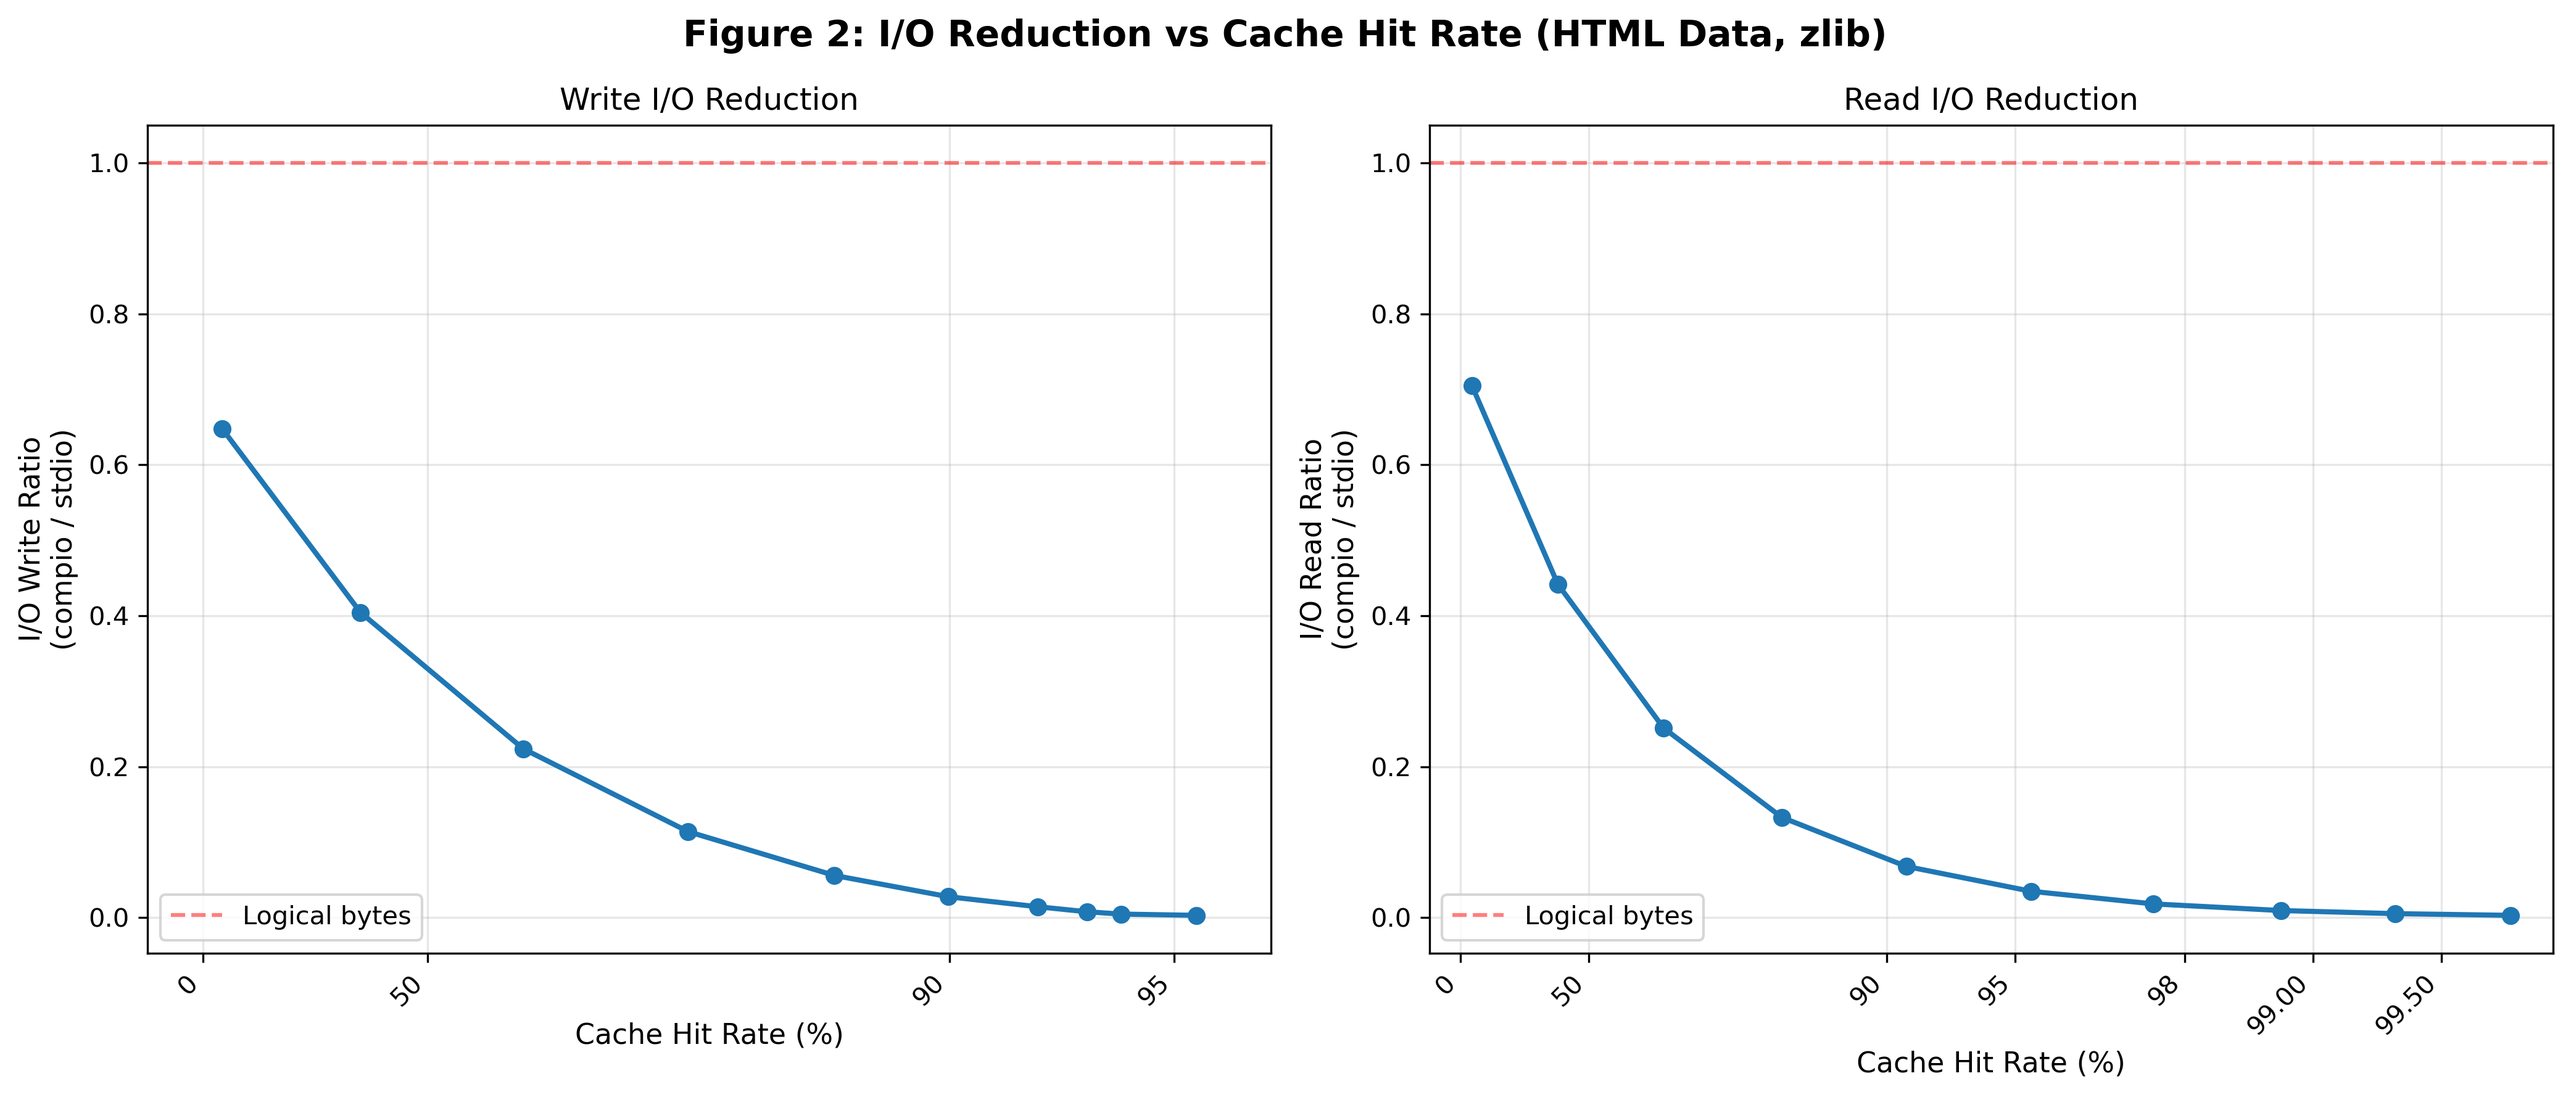
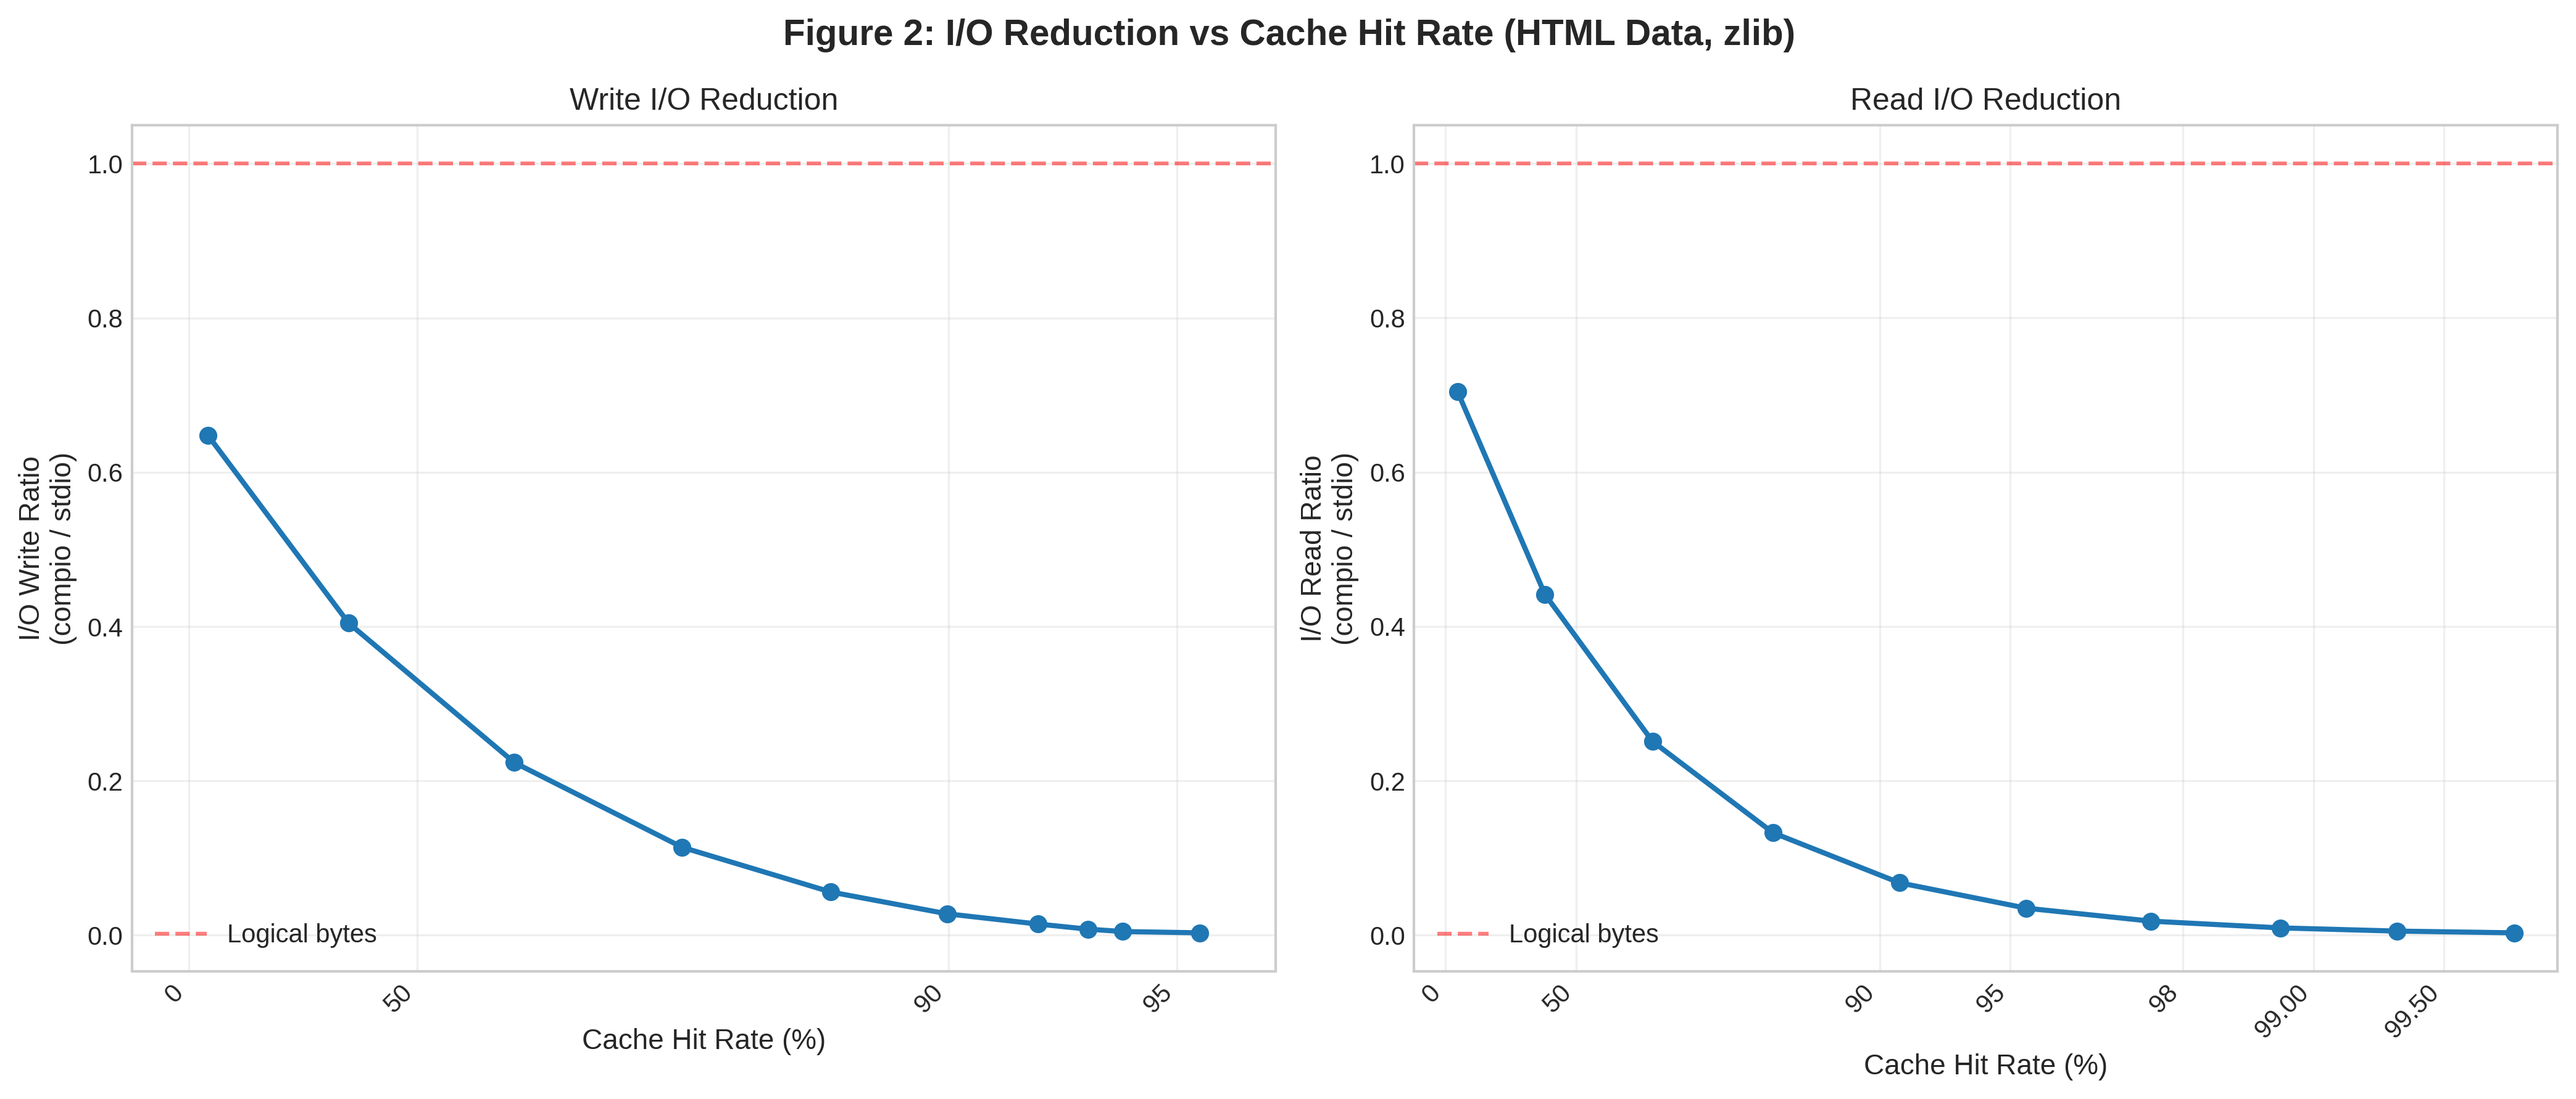
fix: use different plot style, adjust ylim, make dashed line

diff --git a/metrics/analyze.py b/metrics/analyze.py
@@ -12,6 +12,8 @@ mpl.rcParams['font.size'] = 10
 mpl.rcParams['axes.titlesize'] = 12
 mpl.rcParams['axes.labelsize'] = 11
 
+plt.style.use('seaborn-v0_8-whitegrid')
+
 class BenchmarkAnalyzer:
     def __init__(self):
         self.data = {}
@@ -176,6 +178,7 @@ class BenchmarkAnalyzer:
             ax.grid(True, alpha=0.3)
             ax.legend()
             ax.set_xlim(0.8, 600)
+            ax.set_ylim(min(comp_new) - 2, max(comp_old) + 2)
         
         # Plot 1B: Decompression work for reads
         ax = axes[0, 1]
@@ -187,7 +190,7 @@ class BenchmarkAnalyzer:
             decomp_new = [d['n_bytes_decompressed_mean'] / 1e6 for d in data_new]
             
             ax.plot(n_switch_old, decomp_old, 'o-', label='old compio', linewidth=2)
-            ax.plot(n_switch_new, decomp_new, 's-', label='new compio', linewidth=2)
+            ax.plot(n_switch_new, decomp_new, 's--', label='new compio', linewidth=2)
             ax.set_xscale('log')
             ax.set_xlabel('n_switch (log scale)')
             ax.set_ylabel('Bytes Decompressed (MB)')
